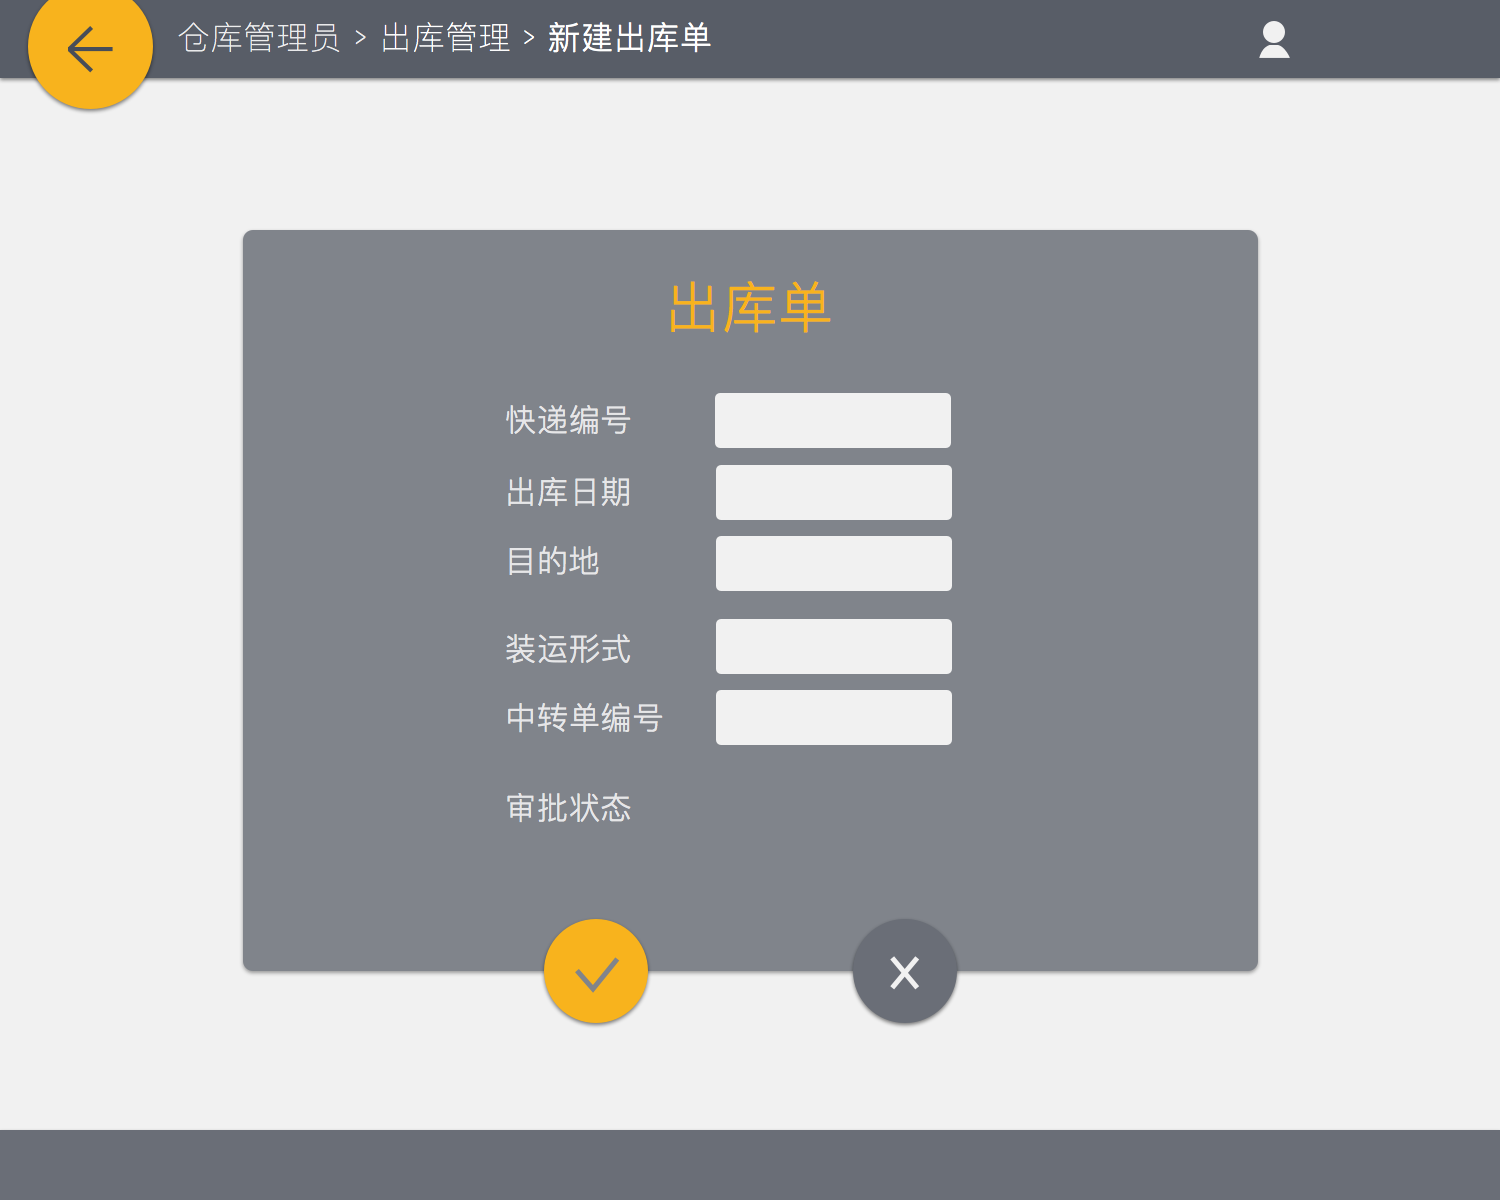
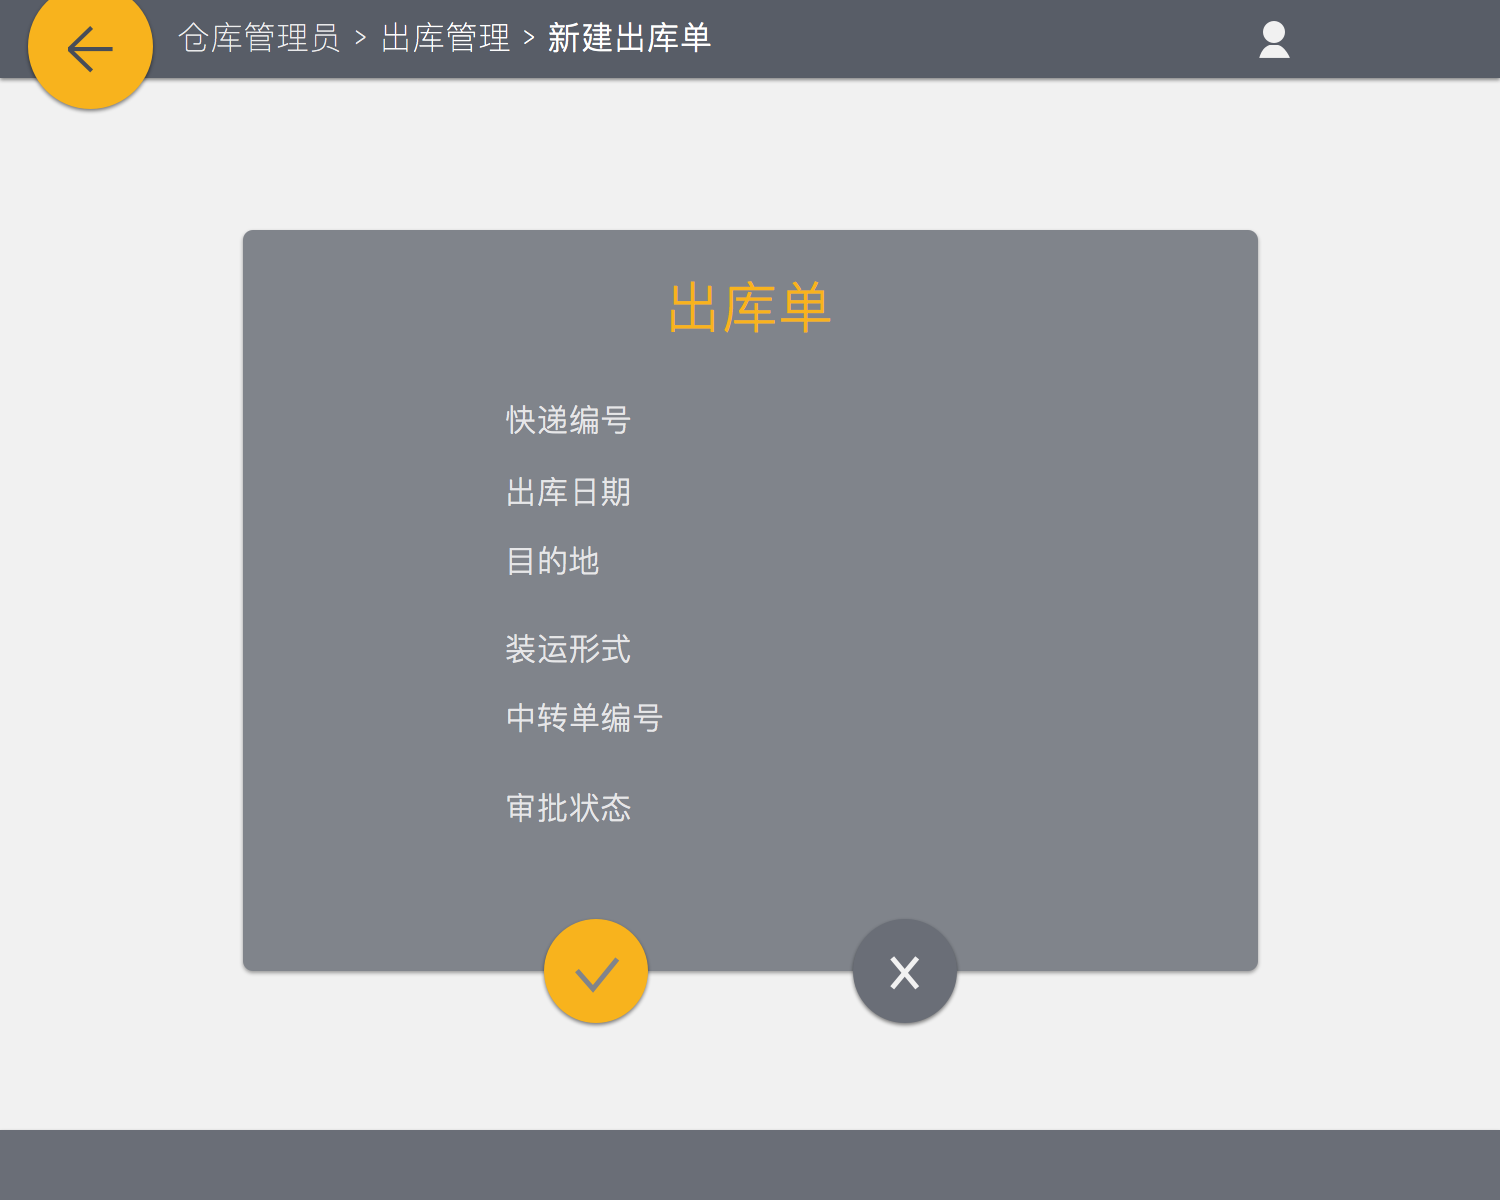
界面调整完成

Changed region(s): [[0.46, 0.3083, 0.644, 0.6475]]

diff --git a/MSE_All/MSE_Client/src/nju/edu/presentation/Transit_center_storemasterui/Warehouse_outui.java b/MSE_All/MSE_Client/src/nju/edu/presentation/Transit_center_storemasterui/Warehouse_outui.java
@@ -1,6 +1,7 @@
 package nju.edu.presentation.Transit_center_storemasterui;
 
 import java.awt.Color;
+import java.awt.Graphics;
 import java.awt.event.ActionEvent;
 import java.awt.event.ActionListener;
 import java.awt.event.MouseAdapter;
@@ -21,6 +22,11 @@ public class Warehouse_outui extends JPanel {
 	/**
 	 * Create the panel.
 	 */
+	protected void paintComponent(Graphics g) {
+		ImageIcon image = new ImageIcon("image/TransitCenterStoreMaster/Warehouse_outui.png");
+		g.drawImage(image.getImage(), 0, 0, getSize().width,getSize().height,this);
+	}
+	
 	public Warehouse_outui(JFrame m, JPanel jp,LoginPO loginPO) {
 		JFrame main = m;
 		JPanel lastui = jp;
@@ -55,7 +61,7 @@ public class Warehouse_outui extends JPanel {
 		lblHello.setBounds(655, 12, 100, 15);
 		add(lblHello);
 
-		JButton btnNewButton_1 = new JButton("New button");
+		JButton btnNewButton_1 = new JButton("");
 		btnNewButton_1.addActionListener(new ActionListener() {
 			public void actionPerformed(ActionEvent e) {
 				Warehouse_out_checkRemindui woc=new Warehouse_out_checkRemindui(main,nowPanel,loginPO);
@@ -66,10 +72,19 @@ public class Warehouse_outui extends JPanel {
 				main.setVisible(true);
 			}
 		});
-		btnNewButton_1.setBounds(134, 214, 160, 128);
+		btnNewButton_1.setBounds(166, 243, 160, 128);
+		btnNewButton_1.setContentAreaFilled(false);
+		btnNewButton_1.setBorderPainted(false);
+		btnNewButton_1.setIcon(new ImageIcon("image/transparent_big.png"));
+		btnNewButton_1.addMouseListener(new MouseAdapter() {
+			@Override
+			public void mousePressed(MouseEvent e) {
+				btnNewButton_1.setIcon(new ImageIcon("image/mask_big.png"));
+			}
+		});
 		add(btnNewButton_1);
 
-		JButton btnNewButton_2 = new JButton("New button");
+		JButton btnNewButton_2 = new JButton("");
 		btnNewButton_2.addActionListener(new ActionListener() {
 			public void actionPerformed(ActionEvent e) {
 				Storeoutorder_Input si=new Storeoutorder_Input(main,nowPanel,loginPO);
@@ -80,7 +95,16 @@ public class Warehouse_outui extends JPanel {
 				main.setVisible(true);
 			}
 		});
-		btnNewButton_2.setBounds(441, 214, 160, 128);
+		btnNewButton_2.setBounds(425, 243, 160, 128);
+		btnNewButton_2.setContentAreaFilled(false);
+		btnNewButton_2.setBorderPainted(false);
+		btnNewButton_2.setIcon(new ImageIcon("image/transparent_big.png"));
+		btnNewButton_2.addMouseListener(new MouseAdapter() {
+			@Override
+			public void mousePressed(MouseEvent e) {
+				btnNewButton_2.setIcon(new ImageIcon("image/mask_big.png"));
+			}
+		});
 		add(btnNewButton_2);
 
 		JToolBar toolBar = new JToolBar();
